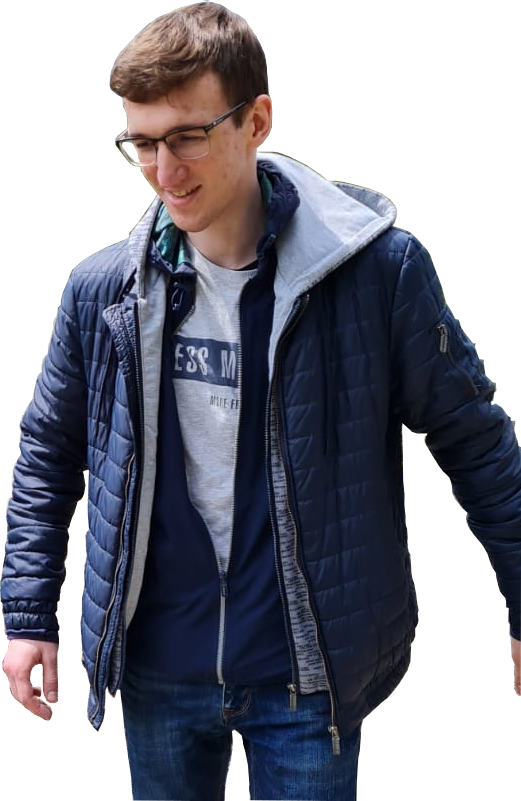
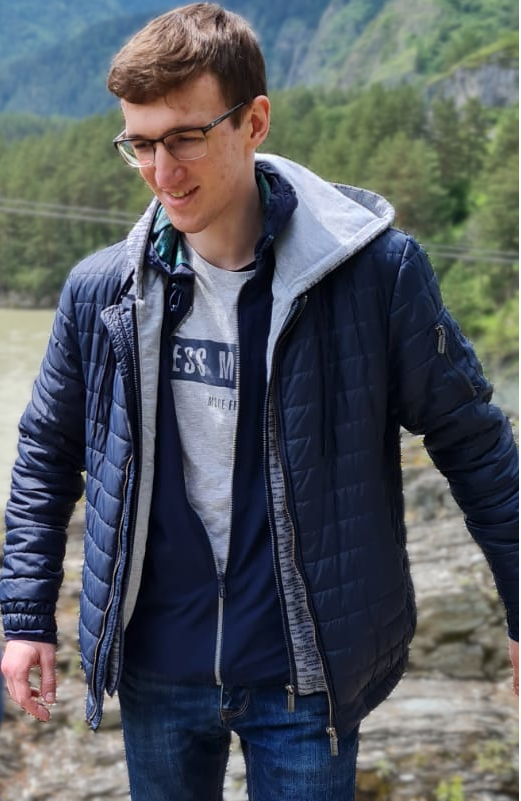
update
fix mobile scroll
fix link opens in the same window
fix page loading animation
change icon
change about me photo

diff --git a/index.html b/index.html
@@ -17,6 +17,7 @@
   <title>Портфолио - Сергей Рядовенко</title>
 </head>
 <body>
+  <div class="root">
 
   <!-- Overlay Start -->
   <div class="overlay">
@@ -39,7 +40,7 @@
           <nav class="nav">
             <div class="nav-inner">
               <ul>
-                <li class="nav-item"><a href="#home" class="nav-link link-item">начало</a></li>
+                <li class="nav-item"><a href="#home" class="nav-link link-item" >начало</a></li>
                 <li class="nav-item"><a href="#about" class="nav-link link-item">обо мне</a></li>
                 <li class="nav-item"><a href="#portfolio" class="nav-link link-item">портфолио</a></li>
                 <li class="nav-item"><a href="#contact" class="nav-link link-item">связаться</a></li>
@@ -198,8 +199,8 @@
                   <li>Создано - <span>19 Авг 2021</span></li>
                   <li>технологии - <span>Angular, Typescript, Scss</span></li>
                   <!-- <li>Role - <span>Frontend</span></li> -->
-                  <li>Посмотреть - <span><a href="https://lime-table-df25e8.netlify.app/" class='link' >https://lime-table-df25e8.netlify.app/</a></span></li>
-                  <li>Исходный код - <span><a href="https://github.com/seiruad/lime-table-angular" class='link' >https://github.com/seiruad/lime-table-angular</a></span></li>
+                  <li>Посмотреть - <span><a href="https://lime-table-df25e8.netlify.app/" class='link' target="_blank" rel="noopener noreferrer" >https://lime-table-df25e8.netlify.app/</a></span></li>
+                  <li>Исходный код - <span><a href="https://github.com/seiruad/lime-table-angular" class='link' target="_blank" rel="noopener noreferrer" >https://github.com/seiruad/lime-table-angular</a></span></li>
                 </ul>
               </div>
             </div>
@@ -221,8 +222,8 @@
                   <li>Создано - <span>11 Авг 2021</span></li>
                   <li>технологии - <span>Scss, React</span></li>
                   <!-- <li>Role - <span>Frontend</span></li> -->
-                  <li>Посмотреть - <span><a href="https://react-theme-switcher-173dd1.netlify.app/" class='link' >https://react-theme-switcher-173dd1.netlify.app/</a></span></li>
-                  <li>Исходный код - <span><a href="https://github.com/seiruad/react-theme-switcher" class='link' >https://github.com/seiruad/react-theme-switcher</a></span></li>
+                  <li>Посмотреть - <span><a href="https://react-theme-switcher-173dd1.netlify.app/" class='link' target="_blank" rel="noopener noreferrer" >https://react-theme-switcher-173dd1.netlify.app/</a></span></li>
+                  <li>Исходный код - <span><a href="https://github.com/seiruad/react-theme-switcher" class='link' target="_blank" rel="noopener noreferrer" >https://github.com/seiruad/react-theme-switcher</a></span></li>
                 </ul>
               </div>
             </div>
@@ -244,8 +245,8 @@
                   <li>Создано - <span>9 Авг 2021</span></li>
                   <li>технологии - <span>React, React-Redux, Scss</span></li>
                   <!-- <li>Role - <span>Frontend</span></li> -->
-                  <li>Посмотреть - <span><a href="https://auth-form-48e0d3.netlify.app/" class='link' >https://auth-form-48e0d3.netlify.app/</a></span></li>
-                  <li>Исходный код - <span><a href="https://github.com/seiruad/react-auth-form" class='link' >https://github.com/seiruad/react-auth-form</a></span></li>
+                  <li>Посмотреть - <span><a href="https://auth-form-48e0d3.netlify.app/" class='link' target="_blank" rel="noopener noreferrer">https://auth-form-48e0d3.netlify.app/</a></span></li>
+                  <li>Исходный код - <span><a href="https://github.com/seiruad/react-auth-form" class='link' target="_blank" rel="noopener noreferrer" >https://github.com/seiruad/react-auth-form</a></span></li>
                 </ul>
               </div>
             </div>
@@ -268,7 +269,7 @@
                 <li>технологии - <span>Node js, Express, postgreSQL</span></li>
                 <!-- <li>Role - <span>Frontend</span></li> -->
                 <!-- <li>Посмотреть - <span><a href="#" class='link' ></a></span></li> -->
-                <li>Исходный код - <span><a href="https://github.com/seiruad/socialmedia" class='link' >https://github.com/seiruad/socialmedia</a></span></li>
+                <li>Исходный код - <span><a href="https://github.com/seiruad/socialmedia" class='link' target="_blank" rel="noopener noreferrer" >https://github.com/seiruad/socialmedia</a></span></li>
               </ul>
             </div>
           </div>
@@ -327,8 +328,8 @@
             <div class="contact-info-item">
               <h3>социальные сети</h3>
               <div class="social-links">
-                <a href="https://vk.com/seiruad" class="link vk-link" ><svg class='icon' width="24" height="24" xmlns="http://www.w3.org/2000/svg" viewBox="0 0 24 24"><path d="M8.469 9c.28 0 .385.124.49.43.535 1.574 1.437 2.95 1.808 2.95.125 0 .189-.052.2-.323l.002-.098v-1.628c-.04-.75-.434-.81-.434-1.077a.26.26 0 01.216-.248L10.813 9h1.72c.206 0 .292.099.309.318l.003.088v2.19c0 .234.1.316.17.316.14 0 .255-.082.51-.34.788-.89 1.345-2.26 1.345-2.26a.465.465 0 01.388-.307L15.346 9h1.093c.331 0 .4.172.331.406-.128.595-1.274 2.257-1.45 2.509l-.022.032c-.116.188-.162.281 0 .492.116.164.499.492.754.796.47.534.824.985.922 1.296.083.285-.041.442-.303.466l-.075.003h-1.094c-.417 0-.54-.336-1.282-1.086-.649-.632-.927-.714-1.089-.714-.198 0-.271.051-.284.292l-.002.087v.991c0 .272-.086.43-.782.43-1.159 0-2.432-.71-3.336-2.022C7.37 11.058 7 9.605 7 9.313c0-.148.05-.283.288-.309L7.375 9h1.094z" fill="currentColor"/><path fill-rule="evenodd" clip-rule="evenodd" d="M10.754 3.1h2.492c1.27 0 2.288 0 3.105.078.841.08 1.563.248 2.21.644a4.9 4.9 0 011.617 1.618c.396.646.564 1.368.644 2.209.078.817.078 1.835.078 3.105v2.492c0 1.27 0 2.288-.078 3.106-.08.84-.248 1.562-.644 2.208a4.9 4.9 0 01-1.618 1.618c-.646.396-1.368.564-2.209.644-.817.078-1.835.078-3.105.078h-2.492c-1.27 0-2.288 0-3.106-.078-.84-.08-1.562-.248-2.208-.644a4.9 4.9 0 01-1.618-1.618c-.396-.646-.564-1.368-.644-2.208-.078-.818-.078-1.836-.078-3.106v-2.492c0-1.27 0-2.288.078-3.105.08-.841.248-1.563.644-2.21A4.9 4.9 0 015.44 3.823c.646-.396 1.368-.564 2.208-.644.818-.078 1.836-.078 3.106-.078zM7.82 4.97c-.71.067-1.123.193-1.439.387A3.1 3.1 0 005.357 6.38c-.194.316-.32.73-.388 1.439-.068.722-.07 1.654-.07 2.981v2.4c0 1.327.002 2.259.07 2.981.068.71.194 1.123.388 1.439a3.1 3.1 0 001.023 1.023c.316.194.73.32 1.439.387.722.07 1.654.07 2.98.07h2.4c1.328 0 2.26 0 2.982-.07.709-.067 1.123-.193 1.439-.387a3.1 3.1 0 001.023-1.023c.194-.316.32-.73.387-1.439.069-.722.07-1.654.07-2.981v-2.4c0-1.327-.001-2.259-.07-2.981-.067-.71-.194-1.123-.387-1.439a3.1 3.1 0 00-1.023-1.023c-.316-.194-.73-.32-1.439-.387-.722-.069-1.654-.07-2.981-.07h-2.4c-1.327 0-2.259.001-2.981.07z" fill="currentColor"/></svg></a>
-                <a href="https://github.com/seiruad" class="link github-link" ><svg class='icon' xmlns="http://www.w3.org/2000/svg" width="24" height="24" viewBox="0 0 24 24"><path d="M12 0c-6.626 0-12 5.373-12 12 0 5.302 3.438 9.8 8.207 11.387.599.111.793-.261.793-.577v-2.234c-3.338.726-4.033-1.416-4.033-1.416-.546-1.387-1.333-1.756-1.333-1.756-1.089-.745.083-.729.083-.729 1.205.084 1.839 1.237 1.839 1.237 1.07 1.834 2.807 1.304 3.492.997.107-.775.418-1.305.762-1.604-2.665-.305-5.467-1.334-5.467-5.931 0-1.311.469-2.381 1.236-3.221-.124-.303-.535-1.524.117-3.176 0 0 1.008-.322 3.301 1.23.957-.266 1.983-.399 3.003-.404 1.02.005 2.047.138 3.006.404 2.291-1.552 3.297-1.23 3.297-1.23.653 1.653.242 2.874.118 3.176.77.84 1.235 1.911 1.235 3.221 0 4.609-2.807 5.624-5.479 5.921.43.372.823 1.102.823 2.222v3.293c0 .319.192.694.801.576 4.765-1.589 8.199-6.086 8.199-11.386 0-6.627-5.373-12-12-12z"/></svg></a>
+                <a href="https://vk.com/seiruad" class="link vk-link" target="_blank" rel="noopener noreferrer" ><svg class='icon' width="24" height="24" xmlns="http://www.w3.org/2000/svg" viewBox="0 0 24 24"><path d="M8.469 9c.28 0 .385.124.49.43.535 1.574 1.437 2.95 1.808 2.95.125 0 .189-.052.2-.323l.002-.098v-1.628c-.04-.75-.434-.81-.434-1.077a.26.26 0 01.216-.248L10.813 9h1.72c.206 0 .292.099.309.318l.003.088v2.19c0 .234.1.316.17.316.14 0 .255-.082.51-.34.788-.89 1.345-2.26 1.345-2.26a.465.465 0 01.388-.307L15.346 9h1.093c.331 0 .4.172.331.406-.128.595-1.274 2.257-1.45 2.509l-.022.032c-.116.188-.162.281 0 .492.116.164.499.492.754.796.47.534.824.985.922 1.296.083.285-.041.442-.303.466l-.075.003h-1.094c-.417 0-.54-.336-1.282-1.086-.649-.632-.927-.714-1.089-.714-.198 0-.271.051-.284.292l-.002.087v.991c0 .272-.086.43-.782.43-1.159 0-2.432-.71-3.336-2.022C7.37 11.058 7 9.605 7 9.313c0-.148.05-.283.288-.309L7.375 9h1.094z" fill="currentColor"/><path fill-rule="evenodd" clip-rule="evenodd" d="M10.754 3.1h2.492c1.27 0 2.288 0 3.105.078.841.08 1.563.248 2.21.644a4.9 4.9 0 011.617 1.618c.396.646.564 1.368.644 2.209.078.817.078 1.835.078 3.105v2.492c0 1.27 0 2.288-.078 3.106-.08.84-.248 1.562-.644 2.208a4.9 4.9 0 01-1.618 1.618c-.646.396-1.368.564-2.209.644-.817.078-1.835.078-3.105.078h-2.492c-1.27 0-2.288 0-3.106-.078-.84-.08-1.562-.248-2.208-.644a4.9 4.9 0 01-1.618-1.618c-.396-.646-.564-1.368-.644-2.208-.078-.818-.078-1.836-.078-3.106v-2.492c0-1.27 0-2.288.078-3.105.08-.841.248-1.563.644-2.21A4.9 4.9 0 015.44 3.823c.646-.396 1.368-.564 2.208-.644.818-.078 1.836-.078 3.106-.078zM7.82 4.97c-.71.067-1.123.193-1.439.387A3.1 3.1 0 005.357 6.38c-.194.316-.32.73-.388 1.439-.068.722-.07 1.654-.07 2.981v2.4c0 1.327.002 2.259.07 2.981.068.71.194 1.123.388 1.439a3.1 3.1 0 001.023 1.023c.316.194.73.32 1.439.387.722.07 1.654.07 2.98.07h2.4c1.328 0 2.26 0 2.982-.07.709-.067 1.123-.193 1.439-.387a3.1 3.1 0 001.023-1.023c.194-.316.32-.73.387-1.439.069-.722.07-1.654.07-2.981v-2.4c0-1.327-.001-2.259-.07-2.981-.067-.71-.194-1.123-.387-1.439a3.1 3.1 0 00-1.023-1.023c-.316-.194-.73-.32-1.439-.387-.722-.069-1.654-.07-2.981-.07h-2.4c-1.327 0-2.259.001-2.981.07z" fill="currentColor"/></svg></a>
+                <a href="https://github.com/seiruad" class="link github-link" target="_blank" rel="noopener noreferrer" ><svg class='icon' xmlns="http://www.w3.org/2000/svg" width="24" height="24" viewBox="0 0 24 24"><path d="M12 0c-6.626 0-12 5.373-12 12 0 5.302 3.438 9.8 8.207 11.387.599.111.793-.261.793-.577v-2.234c-3.338.726-4.033-1.416-4.033-1.416-.546-1.387-1.333-1.756-1.333-1.756-1.089-.745.083-.729.083-.729 1.205.084 1.839 1.237 1.839 1.237 1.07 1.834 2.807 1.304 3.492.997.107-.775.418-1.305.762-1.604-2.665-.305-5.467-1.334-5.467-5.931 0-1.311.469-2.381 1.236-3.221-.124-.303-.535-1.524.117-3.176 0 0 1.008-.322 3.301 1.23.957-.266 1.983-.399 3.003-.404 1.02.005 2.047.138 3.006.404 2.291-1.552 3.297-1.23 3.297-1.23.653 1.653.242 2.874.118 3.176.77.84 1.235 1.911 1.235 3.221 0 4.609-2.807 5.624-5.479 5.921.43.372.823 1.102.823 2.222v3.293c0 .319.192.694.801.576 4.765-1.589 8.199-6.086 8.199-11.386 0-6.627-5.373-12-12-12z"/></svg></a>
               </div>
             </div>
           </div>
@@ -372,7 +373,8 @@
   </div>
   <!-- Popup Portfolio Item Details End -->
 
-
+  </div>
+  <!-- <script src="./src/js/remove-hover.js"></script> -->
   <script src="./index.js"></script>
 </body>
 </html>

diff --git a/index.js b/index.js
@@ -1,13 +1,13 @@
 const toggleScroll = () => {
-  document.body.classList.toggle('hide-scrolling');
+  document.querySelector('.root').classList.toggle('hide-scrolling');
 }
 
 const showScroll = () => {
-  document.body.classList.remove('hide-scrolling');
+  document.querySelector('.root').classList.remove('hide-scrolling');
 }
 
 const hideScroll = () => {
-  document.body.classList.add('hide-scrolling');
+  document.querySelector('.root').classList.add('hide-scrolling');
 }
 
 const toggleNavbar = () => {
@@ -90,6 +90,7 @@ const copyItemInfo = (portfolioItem) => {
 }
 
 document.addEventListener('click', e => {
+  // e.preventDefault()
   if (e.target.classList.contains('btn-view-project')) {
     togglePortfolioPopup();
     document.querySelector('.portfolio-popup').scrollTo(0,0);
@@ -108,4 +109,7 @@ document.addEventListener('click', e => {
 })
 
 
-document.querySelector('.home-section').classList.add('active')
+setTimeout(() => {
+  document.querySelector('.home-section').classList.add('active')
+}, 400)
+

diff --git a/index.css b/index.css
@@ -42,31 +42,41 @@
 body {
   margin: 0;
   padding: 0;
-  min-height: 100vh;
+  /* height: 100vh; */
 
   font-family: "Times New Roman", Times, serif;
   font-family: Arial, Helvetica, sans-serif;
   font-family: 'Comfortaa', cursive;
   font-size: 16px;
   line-height: 1.5;
-  overflow-x: hidden;
+  /* overflow: hidden; */
 
+ 
+
+  
+
+  
+}
+
+.root {
+  overflow-x: hidden;
+  height: 100vh;
   background: #f5f5f5;
   background: linear-gradient(to bottom right, var(--delta-light), var(--delta-epsilon-light) , var(--epsilon-light));
   color: var(--alpha-dark);
-
   -webkit-tap-highlight-color: transparent;
-
   padding: 35px 15px;
   background-attachment: fixed;
+  overflow-y: auto;
+  position:relative;
 }
 
-body.hide-scrolling {
+.root.hide-scrolling {
   overflow-y: hidden;
   padding-right: 20px;
 }
 
-body::before {
+.root::before {
   content: '';
   position: fixed;
   left: 0;

diff --git a/src/js/remove-hover.js b/src/js/remove-hover.js
@@ -1,0 +1,22 @@
+function hasTouch() {
+  return 'ontouchstart' in document.documentElement
+         || navigator.maxTouchPoints > 0
+         || navigator.msMaxTouchPoints > 0;
+}
+
+if (hasTouch()) { // remove all the :hover stylesheets
+  try { // prevent exception on browsers not supporting DOM styleSheets properly
+    for (var si in document.styleSheets) {
+      var styleSheet = document.styleSheets[si];
+      if (!styleSheet.rules) continue;
+
+      for (var ri = styleSheet.rules.length - 1; ri >= 0; ri--) {
+        if (!styleSheet.rules[ri].selectorText) continue;
+
+        if (styleSheet.rules[ri].selectorText.match(':hover')) {
+          styleSheet.deleteRule(ri);
+        }
+      }
+    }
+  } catch (ex) {}
+}

diff --git a/src/styles/config-responsove.css b/src/styles/config-responsove.css
@@ -1,6 +1,19 @@
 
 /* Responsive */
 @media (max-width: 991px) {
+  ::-webkit-scrollbar {
+    width: 5px;
+    
+  }
+  ::-webkit-scrollbar-track {
+    background: var(--white-alpha-m);
+    border-radius: 25%;
+  }
+
+  ::-webkit-scrollbar-thumb {
+    border-radius: 25%;
+  }
+  
   .container {
     padding: 0;
   }

diff --git a/src/styles/section-portfolio.css b/src/styles/section-portfolio.css
@@ -50,6 +50,8 @@ Portfolio Section
 .portfolio-popup.open {
   visibility: visible;
   overflow-y: auto;
+  overflow-x: hidden;
+  overflow-wrap: break-word;
 }
 
 
